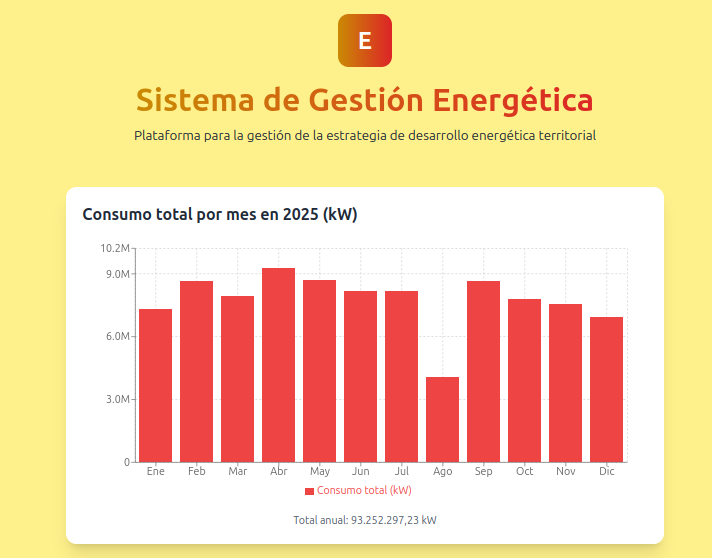
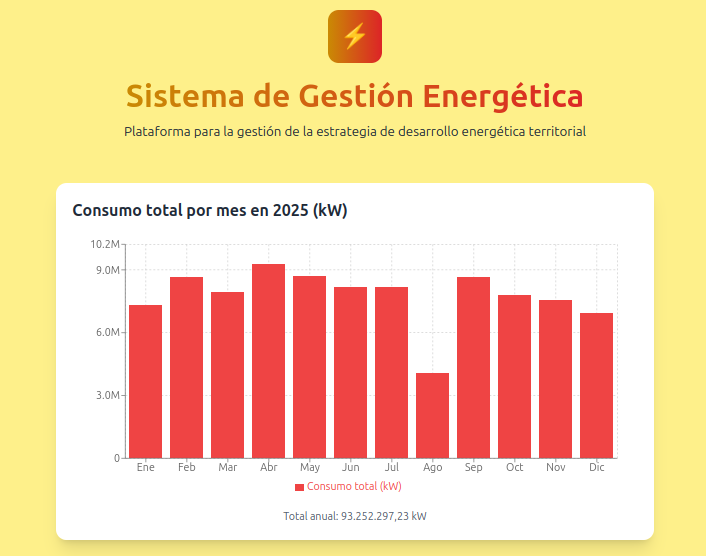
Actualizando README

diff --git a/frontend/src/pages/inicio.jsx b/frontend/src/pages/inicio.jsx
@@ -23,7 +23,7 @@ export function Inicio() {
         {/* Hero Section */}
         <div className="text-center mb-16">
           <div className="inline-flex items-center justify-center w-20 h-20 bg-gradient-to-r from-yellow-600 to-red-600 rounded-2xl mb-6">
-            <span className="text-white font-bold text-4xl">E</span>
+            <span className="text-white font-bold text-4xl">⚡</span>
           </div>
           <h1 className="text-5xl font-bold text-gray-800 mb-4">
               <span className="text-transparent bg-clip-text bg-gradient-to-r from-yellow-600 to-red-600">Sistema de Gestión Energética</span>

diff --git a/README.md b/README.md
@@ -43,7 +43,7 @@ Plataforma web para la gestión integral de la estrategia de desarrollo energét
 app_gestion/
 ├── models/               # Modelos organizados por archivo
 │   ├── base.py           # TimeStampedModel abstracto
-│   ├── oace.py, osde.py, entidad.py, director.py, ...
+│   ├── organismo.py, entidad.py, municipio.py, servicio_electrico.py, ...
 ├── serializers/          # Serializadores DRF
 ├── views/                # ViewSets y vistas de autenticación
 ├── urls/                 # Configuración de rutas (auth, api, consultas)
@@ -58,8 +58,8 @@ app_gestion/
 | POST   | `/register/` | Registro de usuario |
 | POST   | `/logout/` | Cierre de sesión (elimina token) |
 | GET    | `/perfil/` | Datos del usuario autenticado |
-| CRUD   | `/oace/` | Gestión de OACE |
-| CRUD   | `/entidades/` | Gestión de entidades (con herencia empresarial/presupuestada) |
+| CRUD   | `/organismo/` | Gestión de organismos |
+| CRUD   | `/entidades/` | Gestión de entidades  |
 | CRUD   | `/servicios-electricos/` | Gestión de servicios eléctricos |
 | CRUD   | `/portadores-energeticos/` | Gestión de portadores energéticos |
 | GET    | `/consultas/consumo-por-mes/` | Datos agregados para el gráfico anual |
